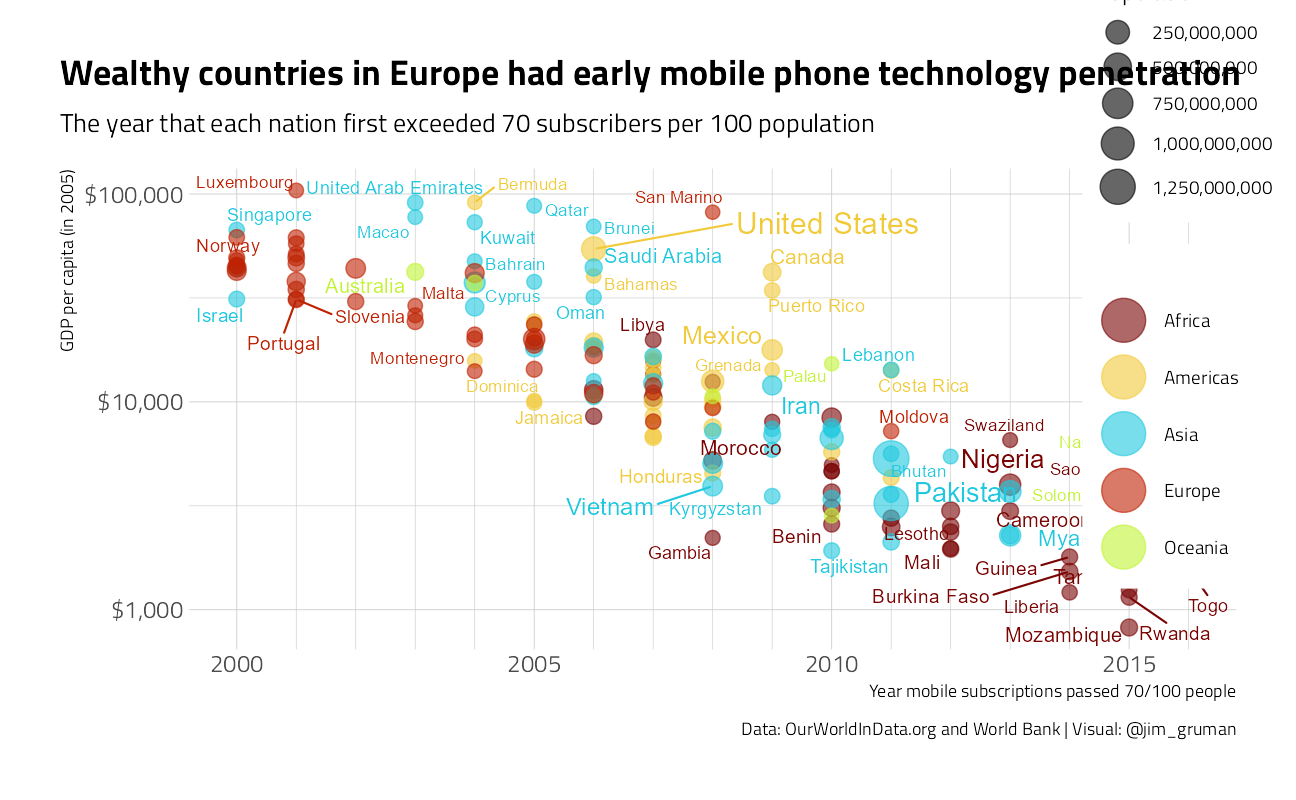
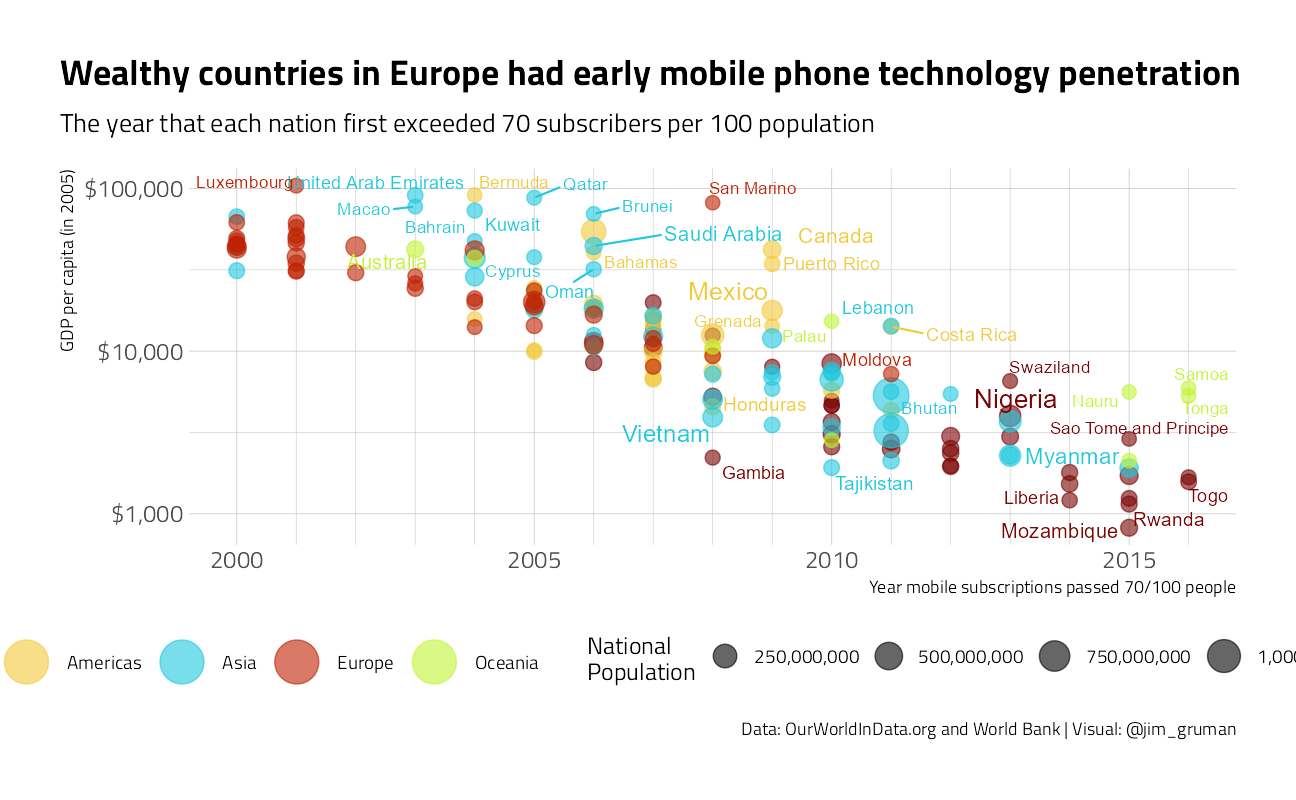
Build site.

diff --git a/docs/PhoneAdoption.html b/docs/PhoneAdoption.html
@@ -402,16 +402,16 @@ This reproducible <a href="http://rmarkdown.rstudio.com">R Markdown</a> analysis
 <div class="panel panel-default">
 <div class="panel-heading">
 <p class="panel-title">
-<a data-toggle="collapse" data-parent="#workflowr-checks" href="#strongRepositoryversionstrongahrefhttpsgithubcomopus1993myTidyTuesdaytree874713414637aa129025df03bea313ee6d9c287etargetblank8747134a"> <span class="glyphicon glyphicon-ok text-success" aria-hidden="true"></span> <strong>Repository version:</strong> <a href="https://github.com/opus1993/myTidyTuesday/tree/874713414637aa129025df03bea313ee6d9c287e" target="_blank">8747134</a> </a>
+<a data-toggle="collapse" data-parent="#workflowr-checks" href="#strongRepositoryversionstrongahrefhttpsgithubcomopus1993myTidyTuesdaytree126568980301182c5f2d69a35a065351ec6ec73dtargetblank1265689a"> <span class="glyphicon glyphicon-ok text-success" aria-hidden="true"></span> <strong>Repository version:</strong> <a href="https://github.com/opus1993/myTidyTuesday/tree/126568980301182c5f2d69a35a065351ec6ec73d" target="_blank">1265689</a> </a>
 </p>
 </div>
[2 lines of base64/hex data omitted]
 <div class="panel-body">
 <p>
 Great! You are using Git for version control. Tracking code development and connecting the code version to the results is critical for reproducibility.
 </p>
 <p>
-The results in this page were generated with repository version <a href="https://github.com/opus1993/myTidyTuesday/tree/874713414637aa129025df03bea313ee6d9c287e" target="_blank">8747134</a>. See the <em>Past versions</em> tab to see a history of the changes made to the R Markdown and HTML files.
+The results in this page were generated with repository version <a href="https://github.com/opus1993/myTidyTuesday/tree/126568980301182c5f2d69a35a065351ec6ec73d" target="_blank">1265689</a>. See the <em>Past versions</em> tab to see a history of the changes made to the R Markdown and HTML files.
 </p>
 <p>
 Note that you need to be careful to ensure that all relevant files for the analysis have been committed to Git prior to generating the results (you can use <code>wflow_publish</code> or <code>wflow_git_commit</code>). workflowr only checks the R Markdown file, but you know if there are other scripts or data files that it depends on. Below is the status of the Git repository when the results were generated:
@@ -464,6 +464,40 @@ Message
 </tr>
 </thead>
 <tbody>
+<tr>
+<td>
+Rmd
+</td>
+<td>
+<a href="https://github.com/opus1993/myTidyTuesday/blob/126568980301182c5f2d69a35a065351ec6ec73d/analysis/PhoneAdoption.Rmd" target="_blank">1265689</a>
+</td>
+<td>
+opus1993
+</td>
+<td>
+2021-09-08
+</td>
+<td>
+modern colore scheme
+</td>
+</tr>
+<tr>
+<td>
+html
+</td>
+<td>
+<a href="https://rawcdn.githack.com/opus1993/myTidyTuesday/71ed3334e859a782533677cc5ac24666919d3dc7/docs/PhoneAdoption.html" target="_blank">71ed333</a>
+</td>
+<td>
+opus1993
+</td>
+<td>
+2021-09-08
+</td>
+<td>
+Build site.
+</td>
+</tr>
 <tr>
 <td>
 Rmd
@@ -803,7 +837,7 @@ countries_summarized %&gt;%
     caption = &quot;Data: OurWorldInData.org and World Bank | Visual: @jim_gruman&quot;
   ) +
   theme(
-    legend.position = c(0.95, 0.8),
+    legend.position = &quot;bottom&quot;,
     legend.background = element_rect(color = &quot;white&quot;)
   )</code></pre>
 <p><img src="figure/PhoneAdoption.Rmd/unnamed-chunk-11-1.png" width="200%" style="display: block; margin: auto;" /></p>
